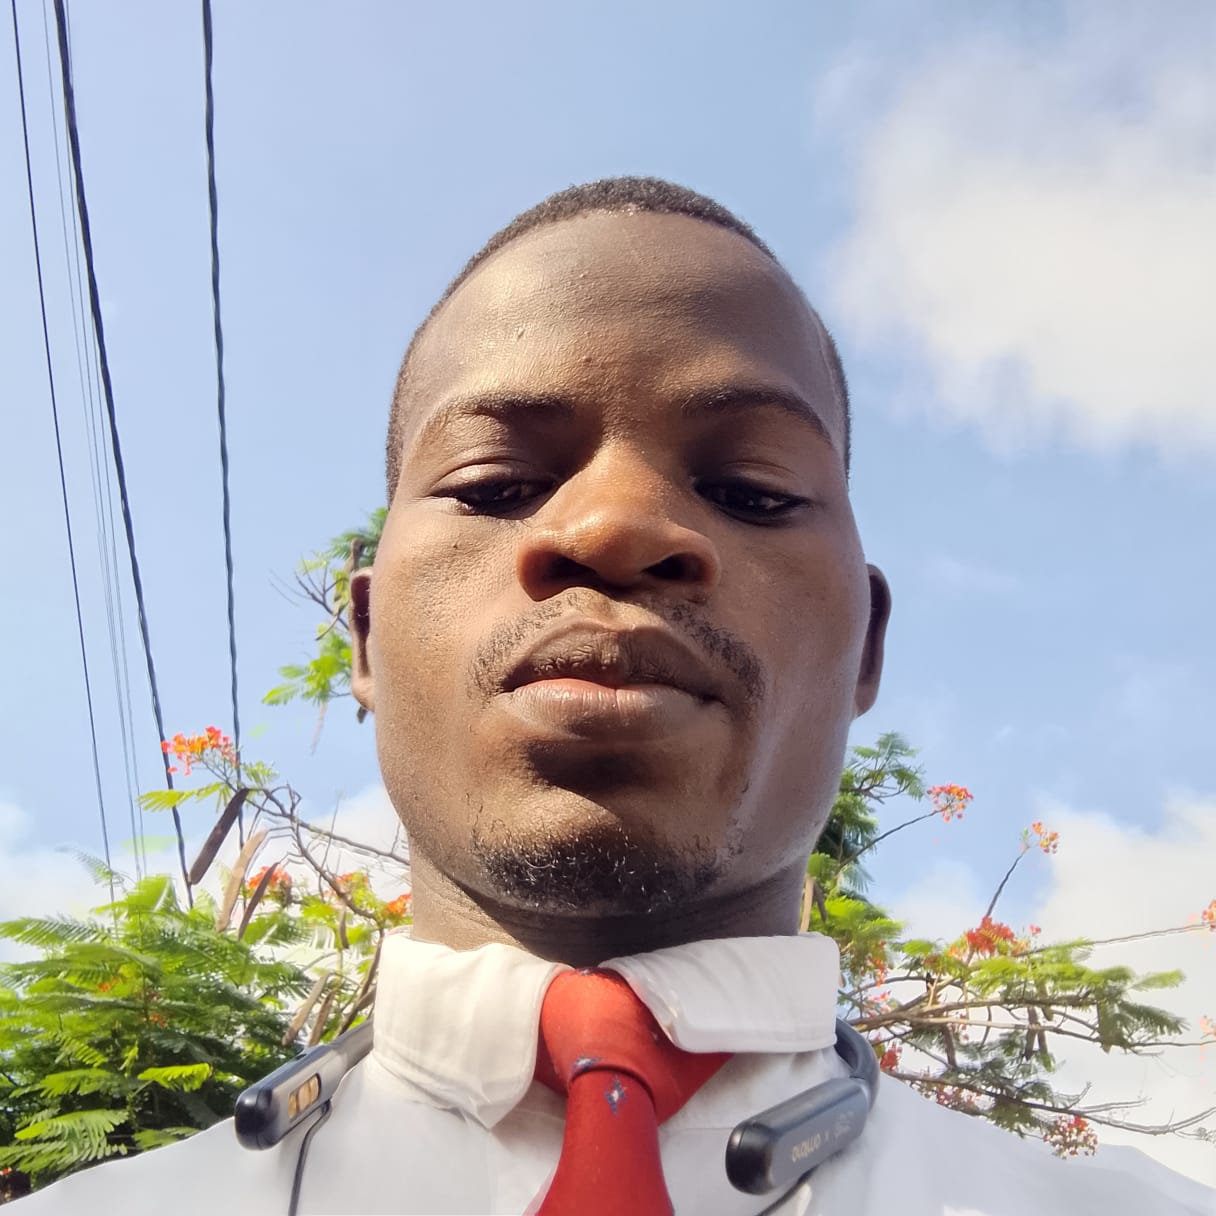
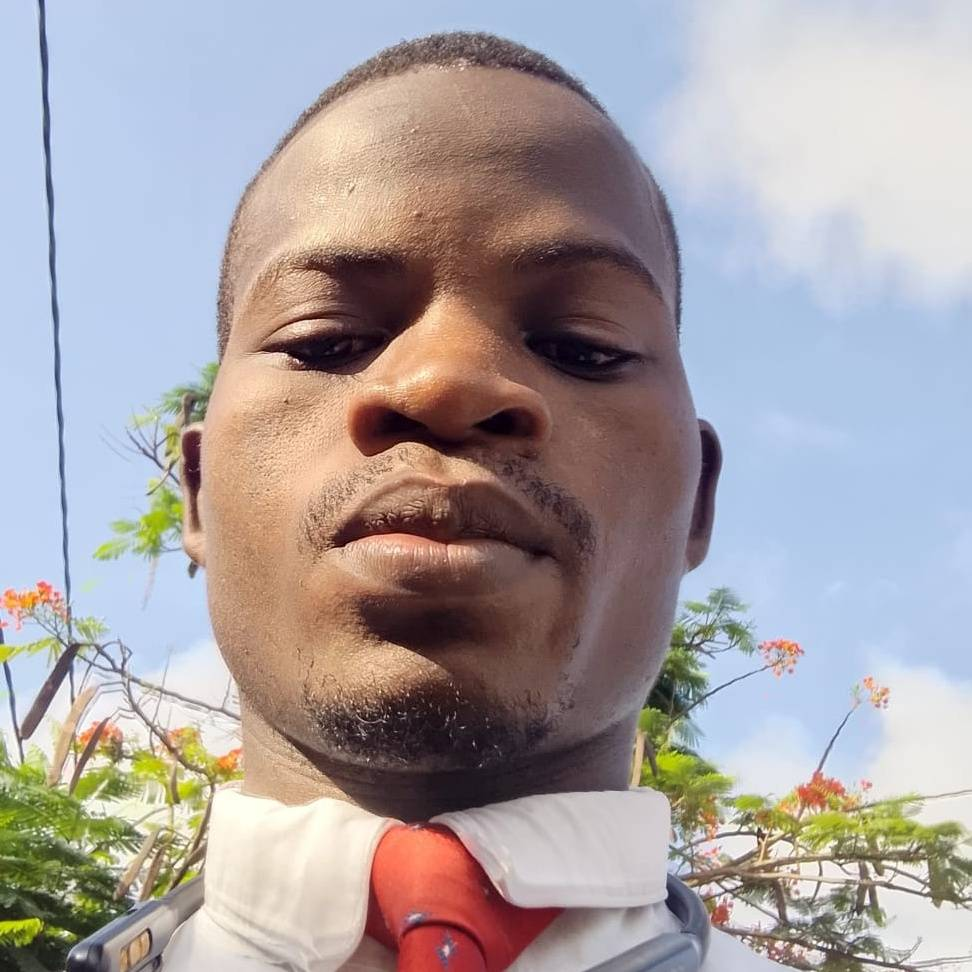
Home page modified

diff --git a/index.html b/index.html
@@ -4,7 +4,7 @@
     <meta charset="UTF-8">
     <meta name="viewport" content="width=device-width, initial-scale=1.0">
     <title>WDD131 - Dynamic Web Fundamentals - Dagnon Loik Sourou Kpadonou </title>
-    <meta name="description"  content="This is a sample HTML document for WDD131 - Dynamic Web Fundamentals course created by Dagnon Loik Sourou Kpadonou . It includes basic structure and meta tags for SEO and responsiveness.">
+    <meta name="description"  content="Sample HTML document for WDD131 - Dynamic Web Fundamentals - By Dagnon Loik Sourou Kpadonou .It includes meta tags for SEO and responsiveness.">
     <meta name="author"  content="Dagnon Loik Sourou Kpadonou">
     <link rel="stylesheet" href="styles/base.css">
     <link rel="preconnect" href="https://fonts.googleapis.com">
@@ -17,7 +17,7 @@
         <span id="course-title">WDD131 - Dynamic Web Fundamentals</span>
         <nav>
             <ul>
-                <li><a href="linkedin.com/in/loik-sourou-kpadonou-dagnon-96a581310">LinkedIn</a></li>
+                <li><a href="linkedin.com">LinkedIn</a></li>
                 <li><a href="https://byupw.instructure.com/">I-Learn</a></li>
                 <li><a href="https://www.churchofjesuschrist.org/study/scriptures/nt/heb/11?lang=eng&id=p1#p1">Scripture</a></li>
                 <li><a href="index.html">Final Project</a></li>
@@ -44,14 +44,14 @@
 
                 </div>
                 
-                <img width="250" height="auto" src="images/profile.jpeg" alt="Profile Picture of Dagnon Loik Sourou Kpadonou" class="profile-pic">  
+                <img width="250" height="300" src="images/profile.jpeg" alt="Profile Picture of Dagnon Loik Sourou Kpadonou" class="profile-pic">  
 
             </div>
 
             <div class="flag-section">
 
                 <div class="flag">
-                    <img width="150" height="auto" src="images/benin-flag.jpg" alt="Flag of Benin" class="flag-pic">
+                    <img width="150" height="120" src="images/benin-flag.jpg" alt="Flag of Benin" class="flag-pic">
                     <p>
                         Official flag of Benin
                     </p>

diff --git a/styles/base.css b/styles/base.css
@@ -11,6 +11,10 @@ body {
     font-size: 16px;
 }
 
+header {
+   width: 100%; 
+}
+
 header #course-title{
     display: block;
     text-align: center;
